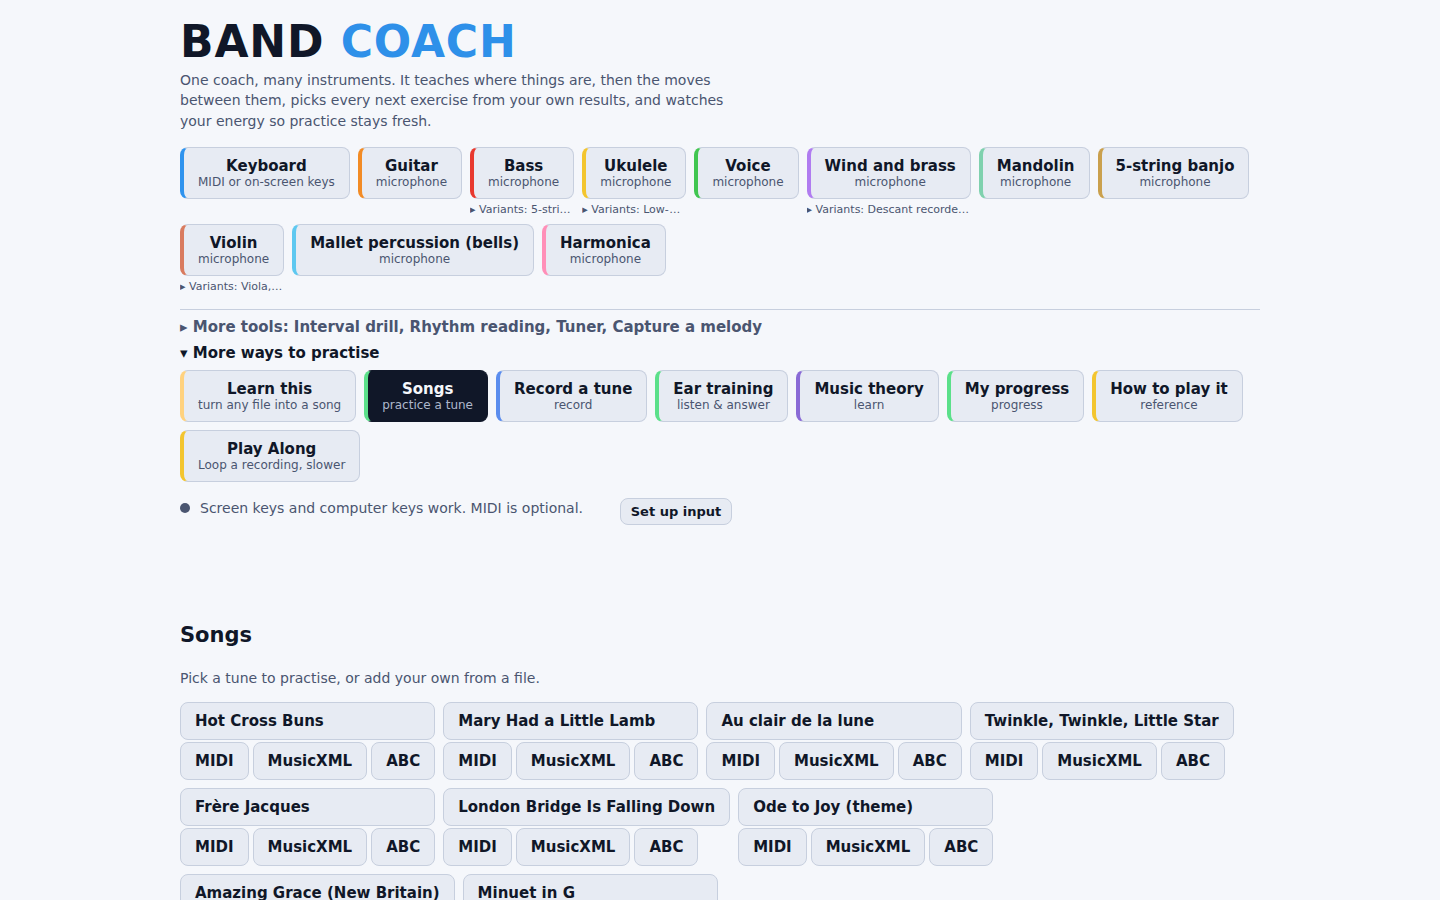
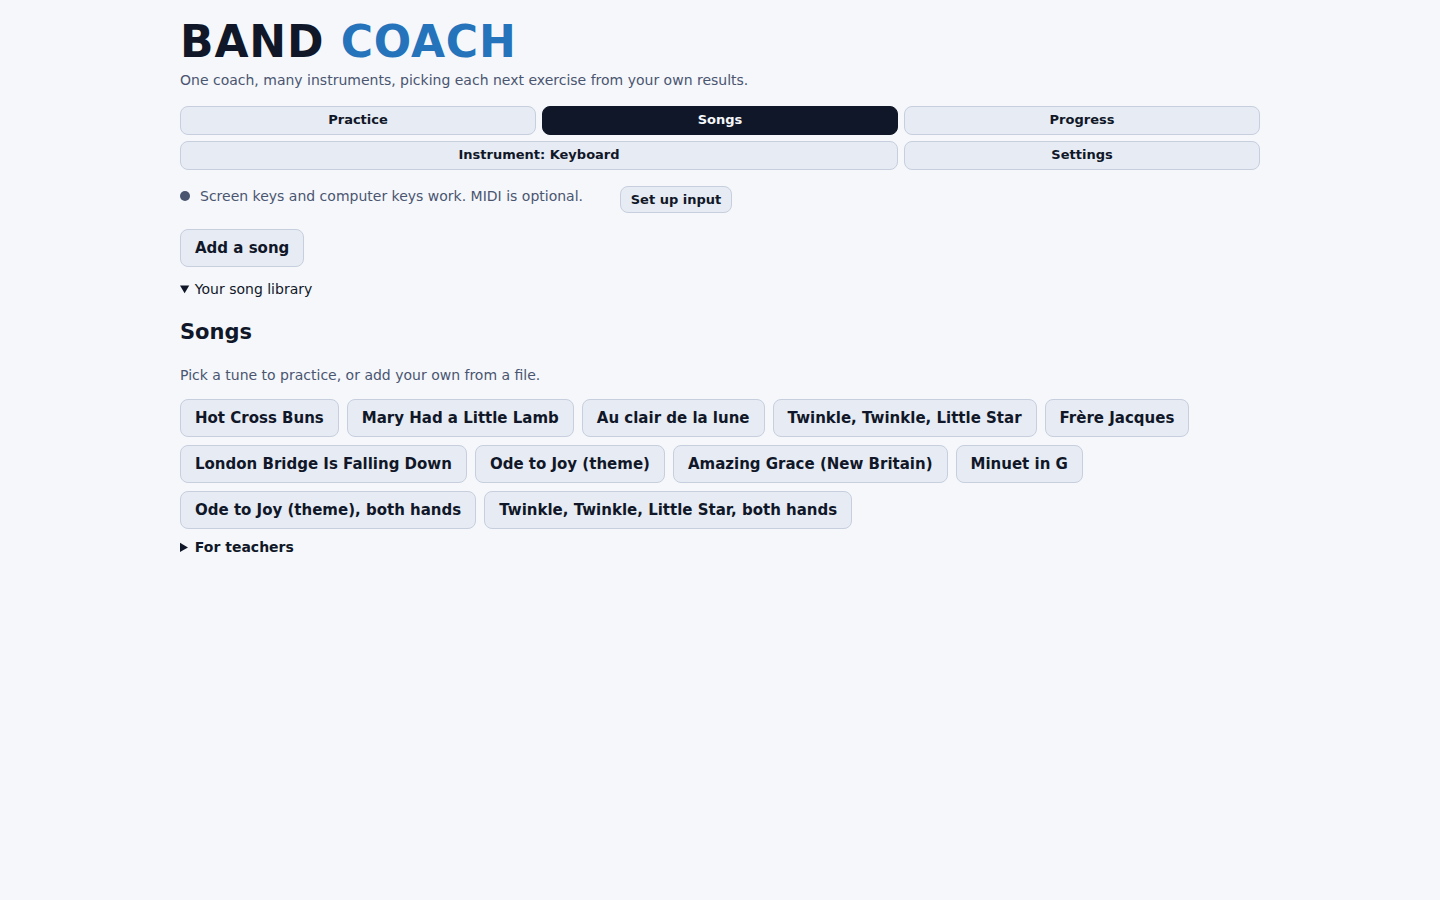
fix(band-coach): v1.10.0 screenshots, Settings/nav copy and model-pack network note
v1.10.0 replaced the panel picker and rail menu with a main nav (Practice, Songs, Progress, Choose an instrument, Settings) and a Tools row in the instrument picker, so the capture script failed on #panelPickerDisclosure and the page described menus that no longer exist.

- capture script drives #mainNav and #picker, and now also cuts home.jpg (800x500, 1:1 from #mainArea) so its manifest entry carries the same source
- all nine images recaptured at v1.10.0; media_source v1.9.0 -> v1.10.0 clears drift-sentinel's stale-screenshot flag
- page copy: backups and updates live in Settings; export is the open song's Export action; Songs/Progress/Settings and the Tools row replace More tools / More ways to practise
- correct the network claim: v1.10.0 has two button-only requests (Check for updates, Download model pack; src/core/update-check.js:16, src/core/model-pack.js:29), not one
- alts and scenarios match what each new image shows

diff --git a/content/band-coach.md b/content/band-coach.md
@@ -14,7 +14,7 @@ Pick an instrument and press Start. Band Coach gives you notes or short phrases 
 
 <img src="/img/band-coach/trainer-keyboard.png" alt="Keyboard trainer at Level 1 (C, D and E): on-screen keyboard, Start button and energy meter" width="1440" height="900" loading="lazy">
 
-Songs are practiced the same way. Open a tune and it is split into graded steps on the instrument you are playing. My progress shows minutes, a practice calendar, a daily goal and a per-instrument breakdown.
+Songs are practiced the same way. Open a tune and it is split into graded steps on the instrument you are playing. Progress shows minutes, a practice calendar, a daily goal and a per-instrument breakdown.
 
 ## Get it running
 
@@ -22,7 +22,7 @@ Songs are practiced the same way. Open a tune and it is split into graded steps 
 2. Open the file in Chrome or Edge. The app's own MIDI message names those two browsers; without Web MIDI it still accepts screen keys and computer keys.
 3. Allow the microphone, or connect a MIDI keyboard. Keyboard uses MIDI, on-screen keys or computer keys; Drum kit uses an electronic kit over MIDI, computer keys, clicks on the drawn kit or the microphone; every other instrument listens through the microphone.
 
-Progress is saved in the browser's local storage, so a different browser or profile starts empty. Use "Save a backup" in the side rail's "More options" to download `band-coach-progress.json`, and "Restore a backup" to load it again. "Check for updates" in the same menu asks the Band Coach website for the latest version number and sends nothing about your playing; it is the only network request in the release I checked (v1.10.0).
+Progress is saved in the browser's local storage, so a different browser or profile starts empty. Use "Save a backup" under Settings → Backups and reset to download `band-coach-progress.json`, and "Restore a backup" to load it again. The release I checked (v1.10.0) makes two network requests, both only when you press their button in Settings, and neither sends anything about your playing: "Check for updates" asks the Band Coach website for the latest version number, and "Download model pack" fetches an optional extra download from the same site.
 
 ## Instruments
 
@@ -36,35 +36,31 @@ Band Coach v1.10.0 has 27 instruments, each with its own graded levels:
 
 Drum kit has its own trainer. It takes an electronic kit over MIDI, computer keys, a click on the drawn kit, or the microphone. The microphone can only tell kick, snare and hi-hat apart; a MIDI kit names every piece.
 
-<img src="/img/band-coach/instrument-picker.png" alt="Band Coach's instrument picker: one button per instrument family, with More tools and More ways to practise closed below" width="1440" height="900" loading="lazy">
+<img src="/img/band-coach/instrument-picker.png" alt="Band Coach's instrument picker: one button per instrument family, then a Tools row of drills, tuner, ear training and theory" width="1440" height="900" loading="lazy">
 
 ## What it can't hear {#what-it-cant-hear}
 
-Band Coach hears pitch and timing. It cannot see posture, breath, bowing or hand position, so it does not replace a teacher. The trainer follows one note at a time, and the app marks chord listening as experimental. Record a tune has a "More than one note at a time" option for audio you transcribe. Microphone use on phones has not been confirmed; the screenshot below only shows that the layout fits a 390 px wide screen.
+Band Coach hears pitch and timing. It cannot see posture, breath, bowing or hand position, so it does not replace a teacher. The trainer follows one note at a time, and the app marks chord listening as experimental. Add a song, in Songs, has a "More than one note at a time" option for audio you transcribe. Microphone use on phones has not been confirmed; the screenshot below only shows that the layout fits a 390 px wide screen.
 
-<img src="/img/band-coach/trainer-phone.png" alt="Band Coach on a 390 px wide phone: the instrument picker with More ways to practise open" width="390" height="844" loading="lazy">
+<img src="/img/band-coach/trainer-phone.png" alt="Band Coach on a 390 px wide phone: the main nav and the instrument picker" width="390" height="844" loading="lazy">
 
 ## Instruments, file formats and tools {#instruments-file-formats-and-tools}
 
 **Import:** a score (`.mid`, `.midi`, `.abc`, `.xml`, `.musicxml`, `.mxl`, `.gp`, `.gp5`), an audio file your browser can decode, a teacher's `.bandpack`, or a saved `.json`. Guitar Pro support is limited to `.gp5` (version 5.x) and `.gp` files.
 
-**Export:** each song in the library exports as MIDI, MusicXML or ABC.
+**Export:** open a song and its Export action saves it as MIDI, MusicXML or ABC.
 
-<img src="/img/band-coach/panel-songs.png" alt="Songs panel: built-in tunes, each with MIDI, MusicXML and ABC export buttons" width="1440" height="900" loading="lazy">
+<img src="/img/band-coach/panel-songs.png" alt="Songs: an Add a song button above the song library of built-in tunes" width="1440" height="900" loading="lazy">
 
-**More tools** (next to the instrument picker): Interval drill, Rhythm reading, Tuner and Capture a melody.
+**Main nav:** Practice (the trainer), Songs, Progress, Choose an instrument and Settings.
 
-**More ways to practise** (each opens a panel below the trainer):
+- **Songs:** practice a built-in tune, or use Add a song to record a tune or open a score or recording. An open song also has Edit notes and Play along.
+- **Progress:** practice calendar, daily goal and results by instrument, once you have logged a session.
+- **Settings:** backups, diagnostics, updates and the optional model pack.
 
-- **Songs:** practice a built-in tune or add your own.
-- **My progress:** practice calendar, daily goal and results by instrument.
-- **Ear training:** listening exercises with answer buttons.
-- **Music theory:** lessons and a lookup for keys, scales and chords.
-- **How to play it:** pick an instrument and note and see how to sound it.
-- **Record a tune** and **Learn this:** turn a recording or score into a song to practice.
-- **Play Along:** work with a song's decoded recording.
+**Tools** (a row in the instrument picker): Interval drill, Rhythm reading, Tuner, Capture a melody, Ear training, How to play it and Music theory.
 
-<img src="/img/band-coach/panel-history.png" alt="My progress panel: no sessions logged yet, a practice calendar and a daily minutes goal" width="1440" height="900" loading="lazy">
+<img src="/img/band-coach/panel-history.png" alt="Progress before any practice: no sessions logged yet, a Start your first session button and results by instrument" width="1440" height="900" loading="lazy">
 
 ## Documentation
 
